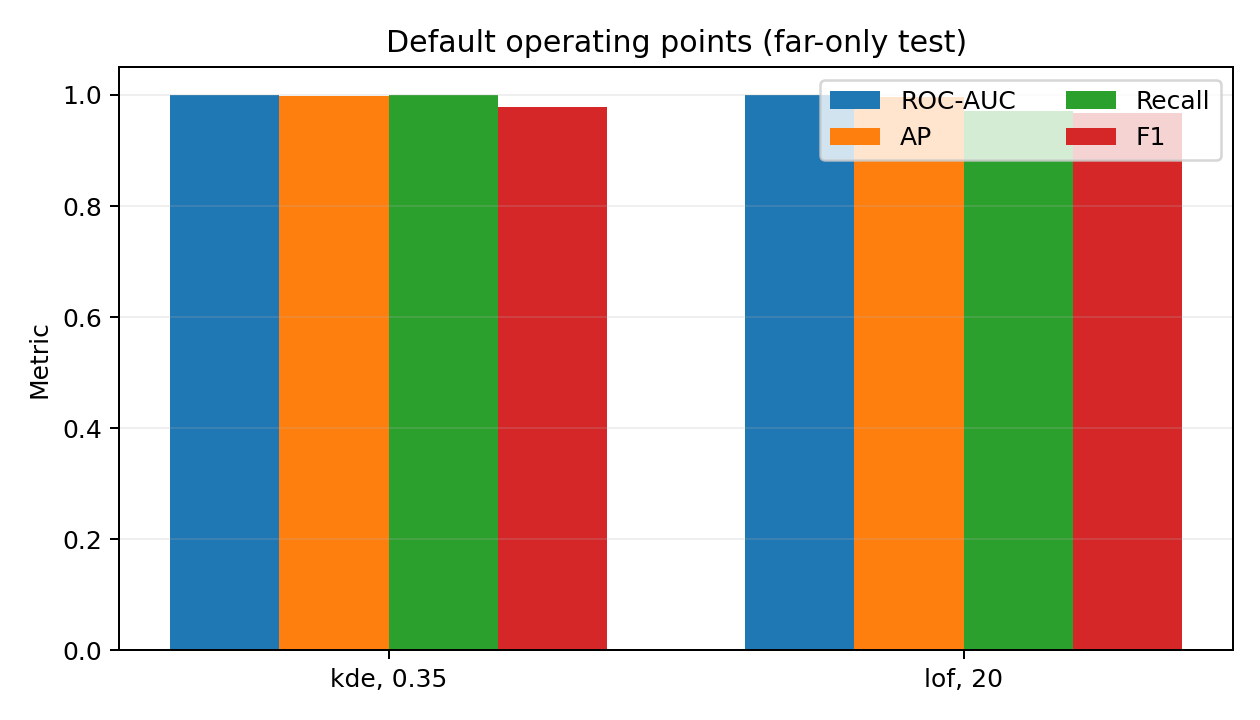
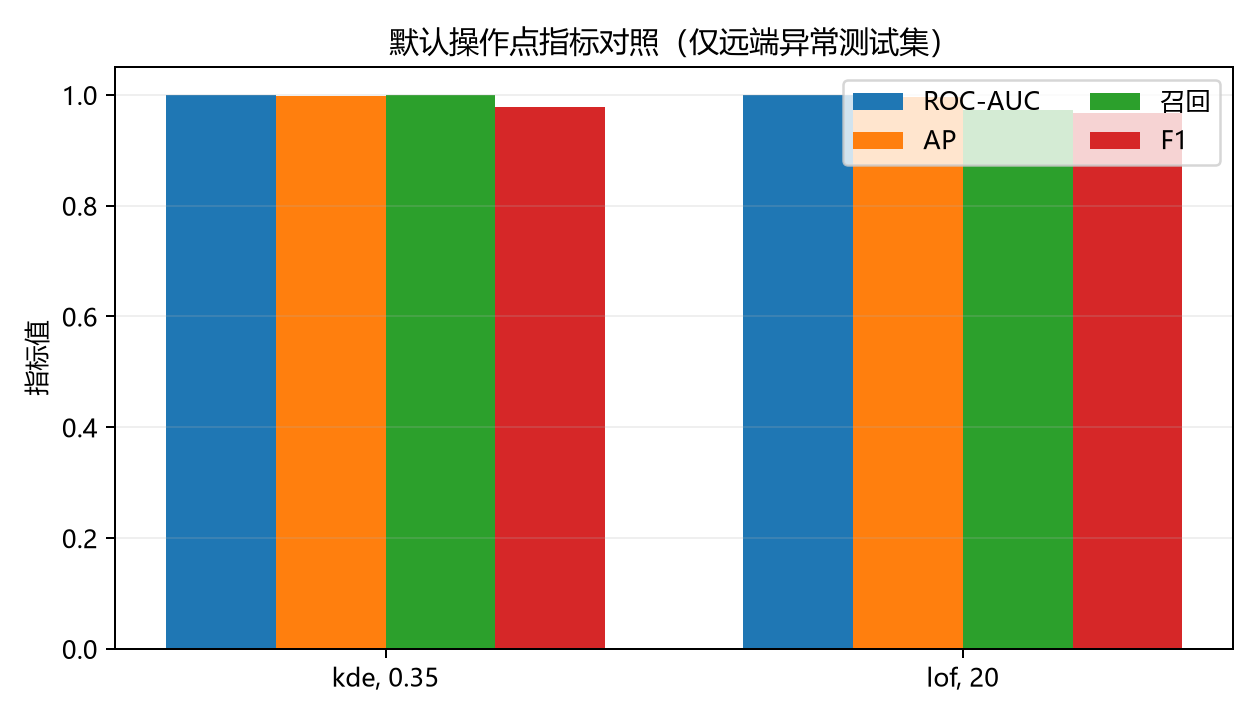
feat: Chinese labels in D figures (language consistency) + docx polish script (fonts/page number)

diff --git a/04_code/plot_d_results.py b/04_code/plot_d_results.py
@@ -4,13 +4,20 @@ Usage (from repository root):
     python 04_code/plot_d_results.py
 
 The script writes to 05_results/main/figures_d so official C figures remain untouched.
+图内文字统一为中文（与论文正文/图注语言一致）；数学符号保留 LaTeX 风格标记。
 """
 from pathlib import Path
 import json
 
+import matplotlib
+matplotlib.use("Agg")
 import matplotlib.pyplot as plt
 import numpy as np
 import pandas as pd
+
+# 中文字体（Windows 常见字体；找不到时 matplotlib 回退并告警）
+plt.rcParams["font.sans-serif"] = ["Microsoft YaHei", "SimHei", "SimSun", "DejaVu Sans"]
+plt.rcParams["axes.unicode_minus"] = False
 
 
 ROOT = Path(__file__).resolve().parents[1]
@@ -43,9 +50,9 @@ def main() -> None:
         z = (grid[:, None] - sample[:, 0][None, :]) / h
         density = np.exp(-0.5 * z**2).mean(axis=1) / (h * np.sqrt(2 * np.pi))
         ax.plot(grid, density, label=f"h={h:g}")
-    ax.set(xlabel="x", ylabel="Estimated density", title="1D KDE bandwidth illustration (fixed samples)")
+    ax.set(xlabel="x", ylabel="估计密度", title="一维 KDE 带宽示意（固定样本）")
     ax.grid(alpha=0.25)
-    ax.legend(title="Bandwidth")
+    ax.legend(title="带宽")
     fig.tight_layout()
     fig.savefig(OUT / "d_e0_bandwidth_1d.png", dpi=180)
     plt.close(fig)
@@ -68,12 +75,12 @@ def main() -> None:
     far_n = int(e3["n_anomaly_far"].iloc[0])
     far_points = np.column_stack((radius * np.cos(theta), radius * np.sin(theta)))[:far_n]
     fig, ax = plt.subplots(figsize=(6.4, 5.2))
-    styles = {"dense": ("tab:blue", "Dense normal"), "sparse": ("tab:green", "Sparse normal")}
+    styles = {"dense": ("tab:blue", "密集簇正常样本"), "sparse": ("tab:green", "稀疏簇正常样本")}
     for name, points in test_parts:
         color, label = styles[name]
         ax.scatter(points[:, 0], points[:, 1], s=12, alpha=0.55, color=color, label=label)
-    ax.scatter(far_points[:, 0], far_points[:, 1], s=16, alpha=0.75, color="tab:red", marker="x", label="Far anomaly")
-    ax.set(xlabel="$x_1$", ylabel="$x_2$", title="Test data overview (v1.0 far-only)")
+    ax.scatter(far_points[:, 0], far_points[:, 1], s=16, alpha=0.75, color="tab:red", marker="x", label="远端异常")
+    ax.set(xlabel="$x_1$", ylabel="$x_2$", title="测试数据总览（v1.0 仅远端异常）")
     ax.set_aspect("equal", adjustable="box")
     ax.grid(alpha=0.2)
     ax.legend()
@@ -84,7 +91,7 @@ def main() -> None:
     fig, ax = plt.subplots(figsize=(6.4, 4.0))
     ax.plot(kde["param_value"], kde["roc_auc"], "o-", label="KDE ROC-AUC")
     ax.plot(kde["param_value"], kde["f1"], "s--", label="KDE F1")
-    ax.set(xlabel="Bandwidth h", ylabel="Metric", title="KDE sensitivity (v1.0 far-only)")
+    ax.set(xlabel="带宽 h", ylabel="指标值", title="KDE 带宽敏感性（v1.0 仅远端异常）")
     ax.grid(alpha=0.25)
     ax.legend()
     fig.tight_layout()
@@ -94,7 +101,7 @@ def main() -> None:
     fig, ax = plt.subplots(figsize=(6.4, 4.0))
     ax.plot(lof["param_value"], lof["roc_auc"], "o-", label="LOF ROC-AUC")
     ax.plot(lof["param_value"], lof["f1"], "s--", label="LOF F1")
-    ax.set(xlabel="Number of neighbors k", ylabel="Metric", title="LOF sensitivity (v1.0 far-only)")
+    ax.set(xlabel="邻居数 k", ylabel="指标值", title="LOF 邻居数敏感性（v1.0 仅远端异常）")
     ax.grid(alpha=0.25)
     ax.legend()
     fig.tight_layout()
@@ -103,9 +110,9 @@ def main() -> None:
 
     fig, ax = plt.subplots(figsize=(6.4, 4.0))
     labels = [f"{d}\n{p:g}" for d, p in zip(e3["detector"], e3["param_value"])]
-    ax.bar(labels, e3["fpr_dense"], label="Dense-cluster FPR")
-    ax.bar(labels, e3["fpr_sparse"], bottom=e3["fpr_dense"], label="Sparse-cluster FPR")
-    ax.set(ylabel="Normal test FPR", title="Default operating points (stacked cluster FPR)")
+    ax.bar(labels, e3["fpr_dense"], label="密集簇误报率")
+    ax.bar(labels, e3["fpr_sparse"], bottom=e3["fpr_dense"], label="稀疏簇误报率")
+    ax.set(ylabel="正常测试误报率", title="默认操作点（分簇误报率堆叠）")
     ax.legend()
     fig.tight_layout()
     fig.savefig(OUT / "d_default_cluster_fpr.png", dpi=180)
@@ -114,10 +121,10 @@ def main() -> None:
     fig, ax = plt.subplots(figsize=(7.0, 4.0))
     positions = np.arange(len(e3))
     width = 0.19
-    for offset, metric, label in zip((-1.5, -0.5, 0.5, 1.5), ("roc_auc", "average_precision", "recall", "f1"), ("ROC-AUC", "AP", "Recall", "F1")):
+    for offset, metric, label in zip((-1.5, -0.5, 0.5, 1.5), ("roc_auc", "average_precision", "recall", "f1"), ("ROC-AUC", "AP", "召回", "F1")):
         ax.bar(positions + offset * width, e3[metric], width, label=label)
     ax.set_xticks(positions, [f"{d}, {p:g}" for d, p in zip(e3["detector"], e3["param_value"])])
-    ax.set(ylabel="Metric", title="Default operating points (far-only test)")
+    ax.set(ylabel="指标值", title="默认操作点指标对照（仅远端异常测试集）")
     ax.legend(ncols=2)
     ax.grid(axis="y", alpha=0.2)
     fig.tight_layout()
@@ -125,12 +132,15 @@ def main() -> None:
     plt.close(fig)
 
     fig, ax = plt.subplots(figsize=(6.4, 4.0))
-    ax.plot(kde["param_value"], kde["val_mean_log_likelihood"], "o-", label="Validation mean log-likelihood")
+    ax.plot(kde["param_value"], kde["val_mean_log_likelihood"], "o-", label="验证集平均对数似然")
     ax2 = ax.twinx()
-    ax2.plot(kde["param_value"], kde["roc_auc"], "s--", color="tab:red", label="Test ROC-AUC")
-    ax.set(xlabel="Bandwidth h", ylabel="Validation mean log-likelihood")
-    ax2.set_ylabel("Test ROC-AUC")
-    ax.set_title("Likelihood versus detection objective")
+    ax2.plot(kde["param_value"], kde["roc_auc"], "s--", color="tab:red", label="测试集 ROC-AUC")
+    ax.set(xlabel="带宽 h", ylabel="验证集平均对数似然")
+    ax2.set_ylabel("测试集 ROC-AUC")
+    ax.set_title("似然目标与检测目标的带宽对照")
+    lines1, labels1 = ax.get_legend_handles_labels()
+    lines2, labels2 = ax2.get_legend_handles_labels()
+    ax.legend(lines1 + lines2, labels1 + labels2, loc="lower right")
     fig.tight_layout()
     fig.savefig(OUT / "d_h4_likelihood_vs_auc.png", dpi=180)
     plt.close(fig)

diff --git a/07_submission/polish_docx.py b/07_submission/polish_docx.py
@@ -1,0 +1,85 @@
+# -*- coding: utf-8 -*-
+"""提交件排版后处理：统一中英文字体 + 页脚页码。
+
+用法：
+    python 07_submission/polish_docx.py
+
+对 07_submission/ 下的两份 docx 执行：
+1. 正文/标题样式设置字体：西文 Times New Roman，中文 宋体（eastAsia）
+2. 页脚居中插入页码（PAGE 域）
+不改变内容，仅排版。
+"""
+import os
+import sys
+
+from docx import Document
+from docx.enum.text import WD_ALIGN_PARAGRAPH
+from docx.oxml import OxmlElement
+from docx.oxml.ns import qn
+
+SUB = os.path.dirname(os.path.abspath(__file__))
+FILES = ["topic_report.docx", "human_ai_process_record.docx"]
+
+LATIN = "Times New Roman"
+EAST_ASIA = "宋体"
+
+
+def _set_style_font(style, latin=LATIN, east_asia=EAST_ASIA):
+    rPr = style.element.get_or_add_rPr()
+    rFonts = rPr.get_or_add_rFonts()
+    rFonts.set(qn("w:ascii"), latin)
+    rFonts.set(qn("w:hAnsi"), latin)
+    rFonts.set(qn("w:eastAsia"), east_asia)
+
+
+def _add_page_number_footer(doc):
+    for section in doc.sections:
+        footer = section.footer
+        p = footer.paragraphs[0] if footer.paragraphs else footer.add_paragraph()
+        p.alignment = WD_ALIGN_PARAGRAPH.CENTER
+        run = p.add_run()
+        fld_begin = OxmlElement("w:fldChar")
+        fld_begin.set(qn("w:fldCharType"), "begin")
+        instr = OxmlElement("w:instrText")
+        instr.set(qn("xml:space"), "preserve")
+        instr.text = "PAGE"
+        fld_end = OxmlElement("w:fldChar")
+        fld_end.set(qn("w:fldCharType"), "end")
+        run._r.append(fld_begin)
+        run._r.append(instr)
+        run._r.append(fld_end)
+
+
+def polish(path: str) -> None:
+    doc = Document(path)
+    # 统一所有样式的字体（含 pandoc 生成的 Body Text / First Paragraph / Compact 等）
+    for style in doc.styles:
+        try:
+            if style.type is not None and hasattr(style, "element"):
+                _set_style_font(style)
+        except Exception:
+            continue
+    # 段落内 run 也显式设置一遍（防止样式继承失效）
+    for p in doc.paragraphs:
+        for r in p.runs:
+            r.font.name = LATIN
+            r._element.get_or_add_rPr()
+            rFonts = r._element.rPr.get_or_add_rFonts()
+            rFonts.set(qn("w:eastAsia"), EAST_ASIA)
+    _add_page_number_footer(doc)
+    doc.save(path)
+    print(f"polished: {os.path.basename(path)}")
+
+
+def main() -> int:
+    for f in FILES:
+        p = os.path.join(SUB, f)
+        if os.path.exists(p):
+            polish(p)
+        else:
+            print(f"skip (missing): {f}")
+    return 0
+
+
+if __name__ == "__main__":
+    sys.exit(main())
